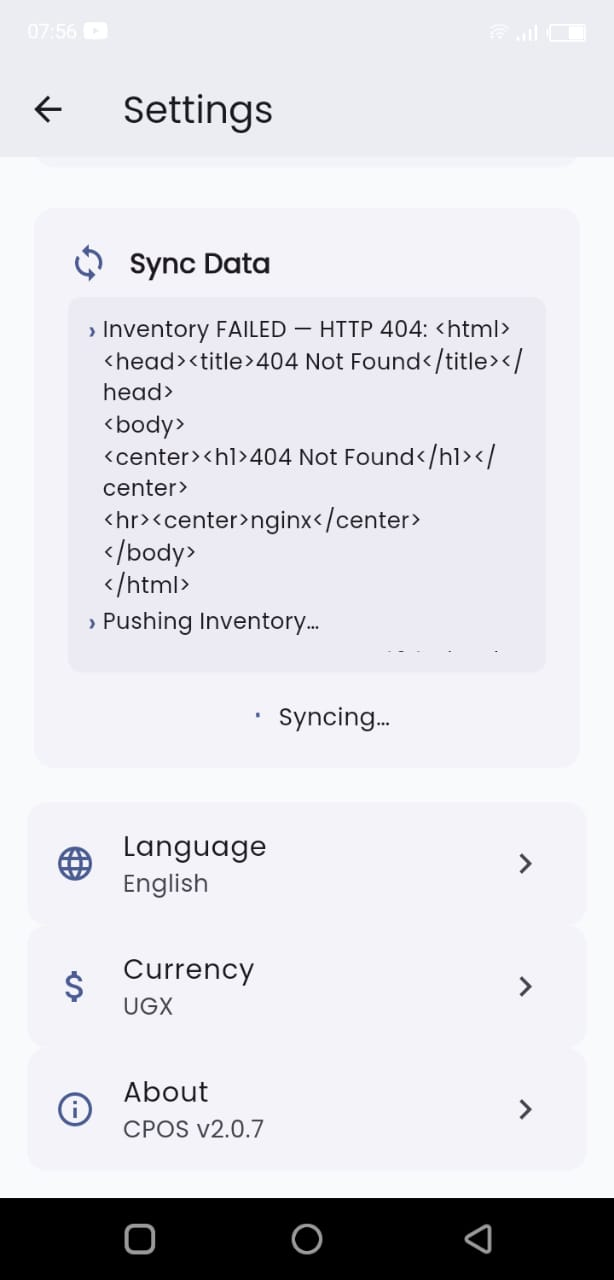
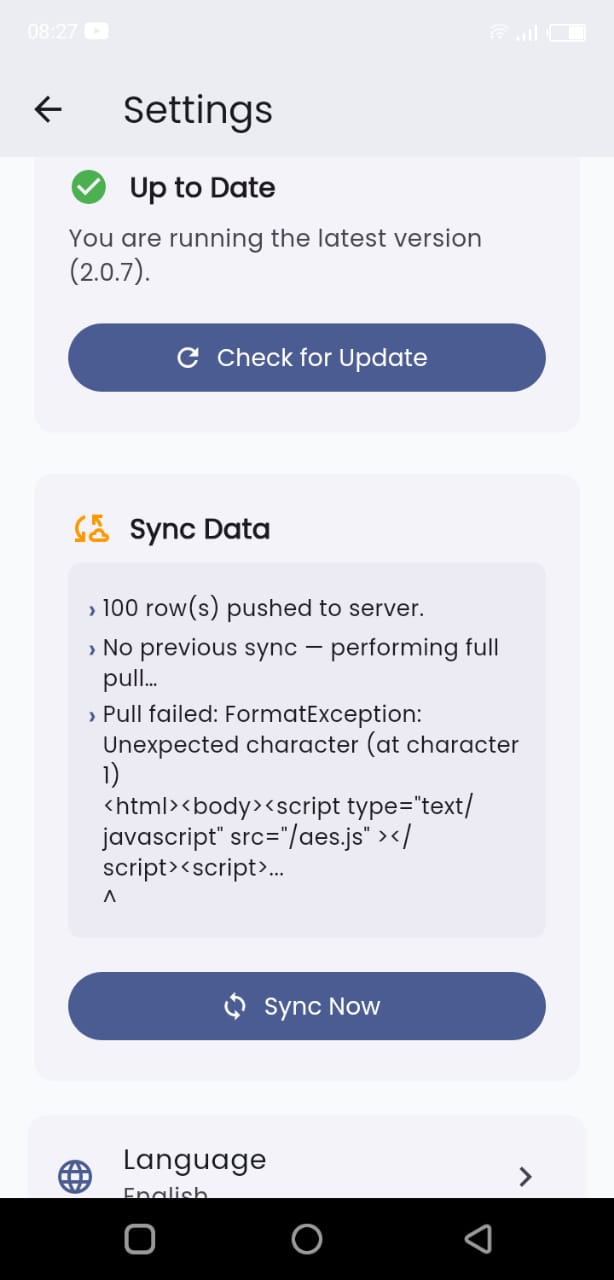
fix(sync): update remote sync base URL

diff --git a/lib/services/sync_service.dart b/lib/services/sync_service.dart
@@ -5,7 +5,7 @@ import 'package:sqflite/sqflite.dart' show ConflictAlgorithm;
 import '../db_helper.dart' show DatabaseHelper;
 
 /// Base URL for the remote sync endpoint.
-const _baseUrl = 'https://chillonpos.is-great.net';
+const _baseUrl = 'https://chillionpos.great-site.net';
 
 /// Low-level HTTPS client that accepts any server certificate.
 ///
